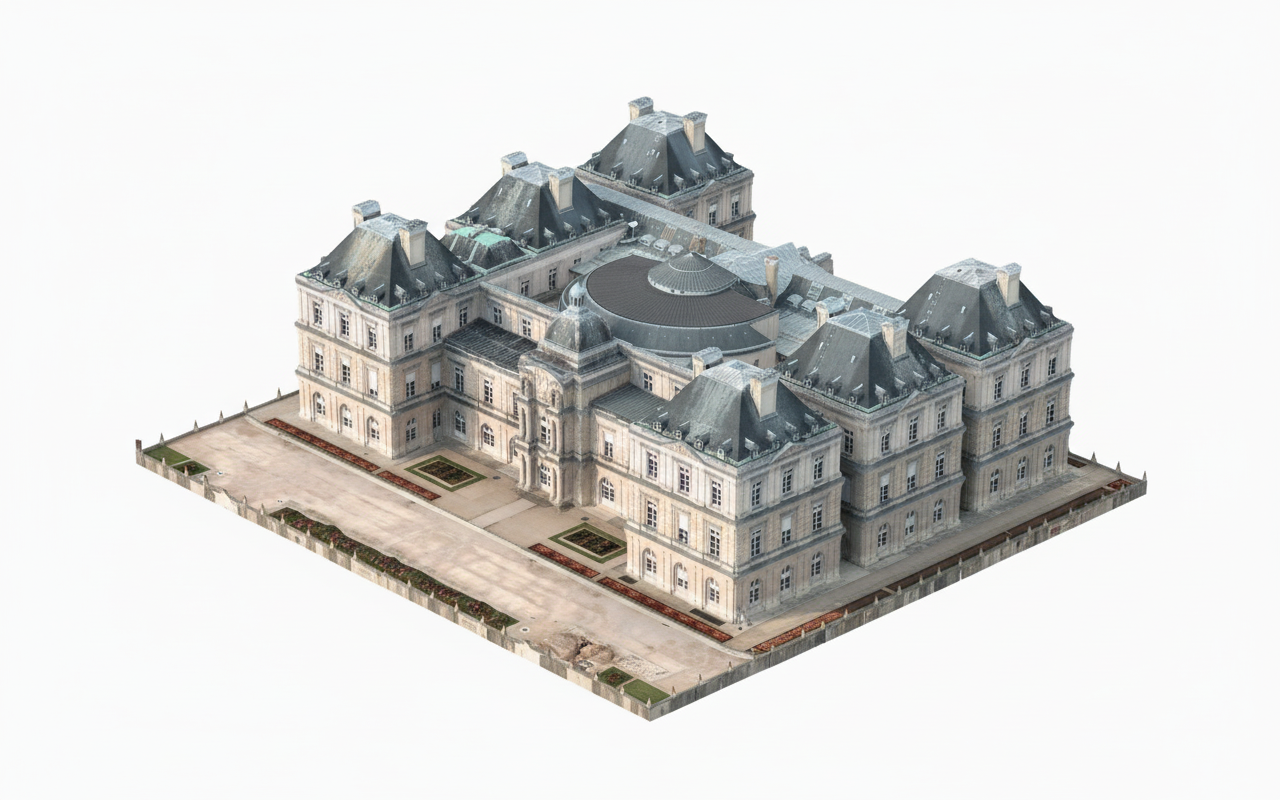
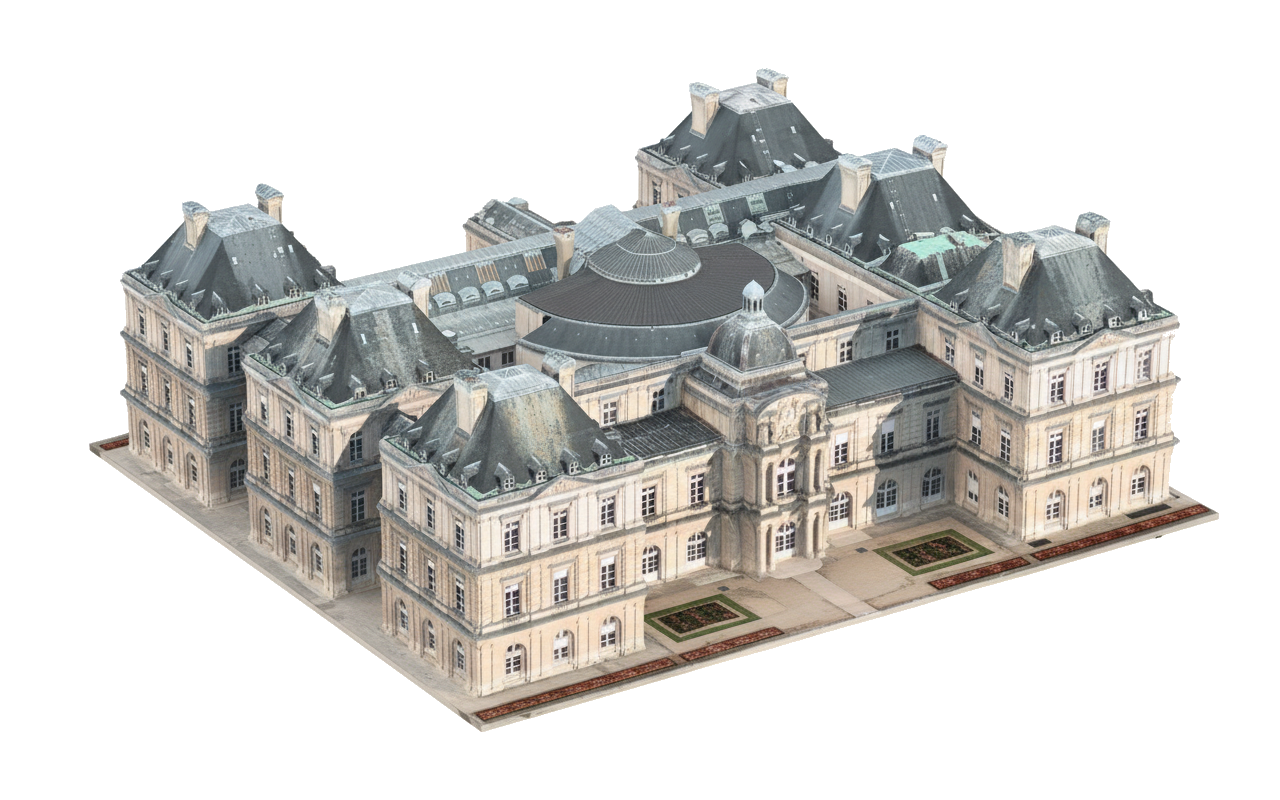
Experimenting with transparency

diff --git a/internal/cmd/root.go b/internal/cmd/root.go
@@ -5,6 +5,7 @@ import (
 	"fmt"
 	"io"
 	"os"
+	"os/exec"
 	"path/filepath"
 	"strings"
 
@@ -23,6 +24,7 @@ var (
 	output        string
 	critiqueLoops int
 	versionFlag   bool
+	transparent   bool
 
 	rootCmd = &cobra.Command{
 		Use:   "nano-agent [images...]",
@@ -63,7 +65,18 @@ var (
 			ctx := context.Background()
 			model := viper.GetString("model")
 
-			imgBytes, err := ai.GenerateImage(ctx, model, images, prompt, fragments)
+			// If transparent requested, augment prompt with a white-background instruction
+			effPrompt := prompt
+			if transparent {
+				hint := "Please render the subject with a solid white background around the subject; avoid interior transparency."
+				if strings.TrimSpace(effPrompt) == "" {
+					effPrompt = hint
+				} else {
+					effPrompt = effPrompt + "\n\n" + hint
+				}
+			}
+
+			imgBytes, err := ai.GenerateImage(ctx, model, images, effPrompt, fragments)
 			if err != nil {
 				return err
 			}
@@ -74,6 +87,14 @@ var (
 				return err
 			}
 			fmt.Fprintf(cmd.OutOrStdout(), "Generated image saved at: %s\n", output)
+
+			// Post-process to transparent background if requested
+			if transparent {
+				if err := makeBackgroundTransparent(output); err != nil {
+					return fmt.Errorf("post-process transparency failed: %w", err)
+				}
+				fmt.Fprintf(cmd.OutOrStdout(), "Applied transparent background post-process: %s\n", output)
+			}
 
 			if critiqueLoops > 0 {
 				baseOutputPath := output
@@ -165,6 +186,7 @@ func init() {
 	rootCmd.Flags().StringVarP(&output, "output", "o", "output.png", "Path to save the generated PNG image")
 	rootCmd.Flags().IntVar(&critiqueLoops, "critique-loops", 0, "Number of critique-improve loops to run (default: 0)")
 	rootCmd.Flags().BoolVarP(&versionFlag, "version", "v", false, "Print version and exit")
+	rootCmd.Flags().BoolVarP(&transparent, "transparent", "t", false, "Request white background and post-process to transparent background")
 }
 
 func initConfig() {
@@ -179,4 +201,49 @@ func initConfig() {
 		}
 	}
 	_ = viper.ReadInConfig()
+}
+
+// makeBackgroundTransparent performs a flood-fill from the border to convert a white background
+// to transparency using ImageMagick. Prefers IM7 `magick` and falls back to IM6 `convert`.
+func makeBackgroundTransparent(path string) error {
+	dir := filepath.Dir(path)
+	base := strings.TrimSuffix(filepath.Base(path), filepath.Ext(path))
+	tmp := filepath.Join(dir, base+"__tmp_transparent.png")
+
+	fuzz := strings.TrimSpace(os.Getenv("NANO_BG_FUZZ"))
+	if fuzz == "" {
+		fuzz = "6%"
+	}
+	// Args: add 1px white border, flood-fill from (1,1) to none, shave border
+	// Use IM7-friendly draw primitive: 'color x,y floodfill'
+	args := []string{path, "-colorspace", "sRGB", "-alpha", "set", "-bordercolor", "white", "-border", "1",
+		"-fuzz", fuzz, "-fill", "none", "-draw", "color 1,1 floodfill", "-shave", "1x1", tmp}
+
+	var cmd *exec.Cmd
+	if _, err := exec.LookPath("magick"); err == nil {
+		cmd = exec.Command("magick", args...)
+	} else if _, err := exec.LookPath("convert"); err == nil {
+		cmd = exec.Command("convert", args...)
+	} else {
+		return fmt.Errorf("ImageMagick not installed: install via Homebrew (brew install imagemagick) or apt (sudo apt-get install -y imagemagick)")
+	}
+	cmd.Stdout = os.Stdout
+	cmd.Stderr = os.Stderr
+	if err := cmd.Run(); err != nil {
+		_ = os.Remove(tmp)
+		return err
+	}
+	if err := os.Rename(tmp, path); err != nil {
+		b, rerr := os.ReadFile(tmp)
+		if rerr != nil {
+			_ = os.Remove(tmp)
+			return err
+		}
+		if werr := os.WriteFile(path, b, 0o644); werr != nil {
+			_ = os.Remove(tmp)
+			return err
+		}
+		_ = os.Remove(tmp)
+	}
+	return nil
 }

diff --git a/README.md b/README.md
@@ -11,6 +11,7 @@ nano-agent is a CLI for generating, editing and compositing images using Google'
 - Pass in images to edit or composite with a prompt
 - Support for reusable prompt fragments via `-f/--fragment`
 - Support for critique-improve feedback loops via `-cl/--critique-loops`
+- Transparent background post-process via `-t/--transparent` (solid white background keyed to alpha)
 
 ## Install
 
@@ -92,6 +93,17 @@ nano-agent -p "Tighten line work and add stronger rim light" \
 # Iterations are saved to: examples/comic/panels/outputs/panel_dan_office_v2_improved_1.png, _2.png, _3.png
 ```
 
+- Generate with transparent background (flood-fill from border):
+```bash
+nano-agent examples/isometric/input.png \
+  -p "Focus on the building" \
+  -f examples/isometric/isometric-style.txt \
+  -t \
+  -o examples/isometric/lux-palace.png
+```
+Notes:
+- `-t/--transparent` adds a hint to render on solid white and post-processes the output using ImageMagick to make only the outer white background transparent (border flood-fill). Interior whites remain intact.
+
 ## Version & updates
 - Print version: `nano-agent -v` (or `--version`)
 - macOS updates follow Homebrew: `brew update && brew upgrade rkirkendall/tap/nano-agent`
@@ -162,6 +174,12 @@ Notes:
 ### Troubleshooting
 - If you see an HTML response from OpenRouter, ensure you’re hitting the API endpoint (`https://openrouter.ai/api/v1`) and that the `Authorization` and `Content-Type: application/json` headers are set. `.env` loading is supported, but shell exports take precedence.
 - If you get a 402 credits error, reduce output length (the tool already requests reasonable token budgets) or upgrade credits in OpenRouter.
+
+### Dependencies for transparency
+- The `-t/--transparent` feature requires ImageMagick (`magick` or `convert`).
+- macOS (Homebrew): `brew install imagemagick`
+- Debian/Ubuntu: `sudo apt-get update && sudo apt-get install -y imagemagick`
+- The install script attempts to install ImageMagick automatically when missing.
 
 ## Uninstall
 
